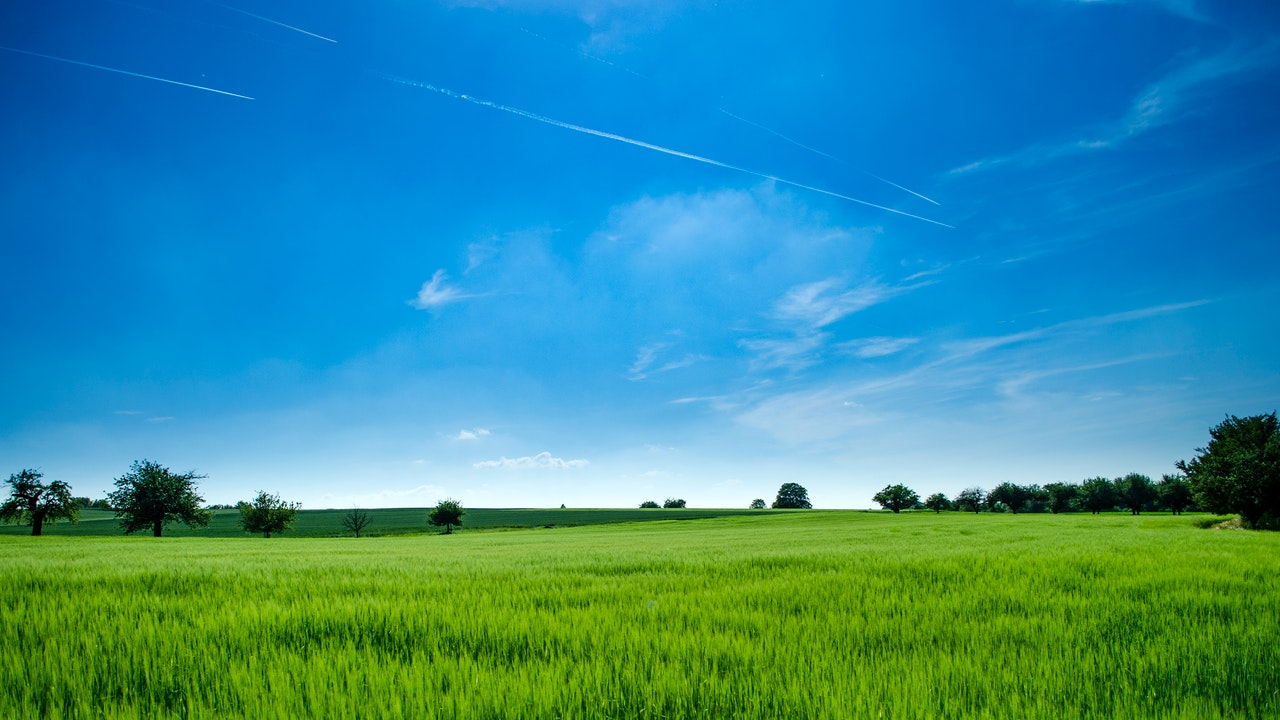
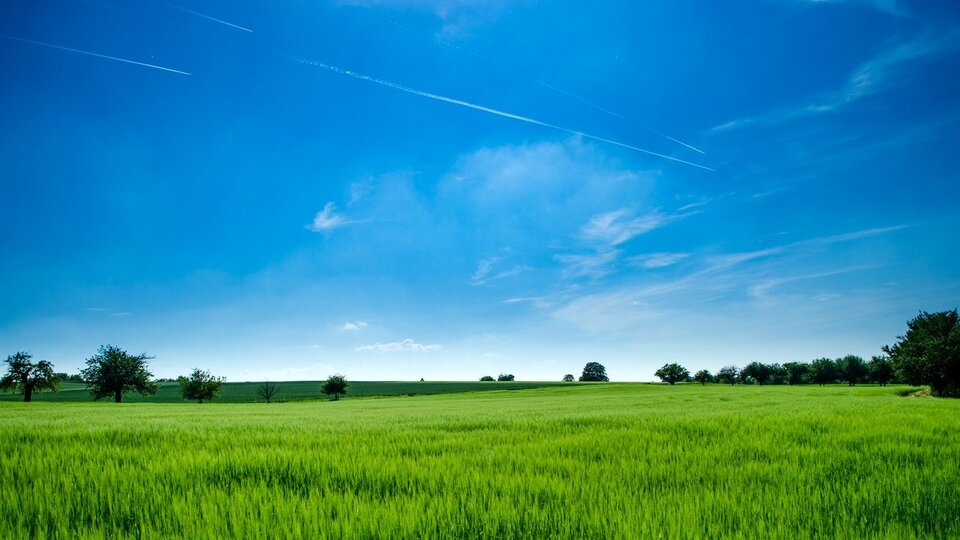
:zap: [Add] Minified images

diff --git a/src/shared/Animations.js b/src/shared/Animations.js
@@ -91,27 +91,6 @@ const titleNavBarVariant = {
   },
 }
 
-const variantsSlide = {
-  enter: (direction) => {
-    return {
-      x: direction > 0 ? 1000 : -1000,
-      opacity: 0,
-    }
-  },
-  center: {
-    zIndex: 1,
-    x: 0,
-    opacity: 1,
-  },
-  exit: (direction) => {
-    return {
-      zIndex: 0,
-      x: direction < 0 ? 1000 : -1000,
-      opacity: 0,
-    }
-  },
-}
-
 const variantsNavSlideButton = {
   open: {
     y: 0,
@@ -131,7 +110,6 @@ const variantsNavSlideButton = {
 }
 
 export {
-  variantsSlide,
   whileHoverCard,
   whileHoverCardExit,
   whileHoverSpriteImage,
